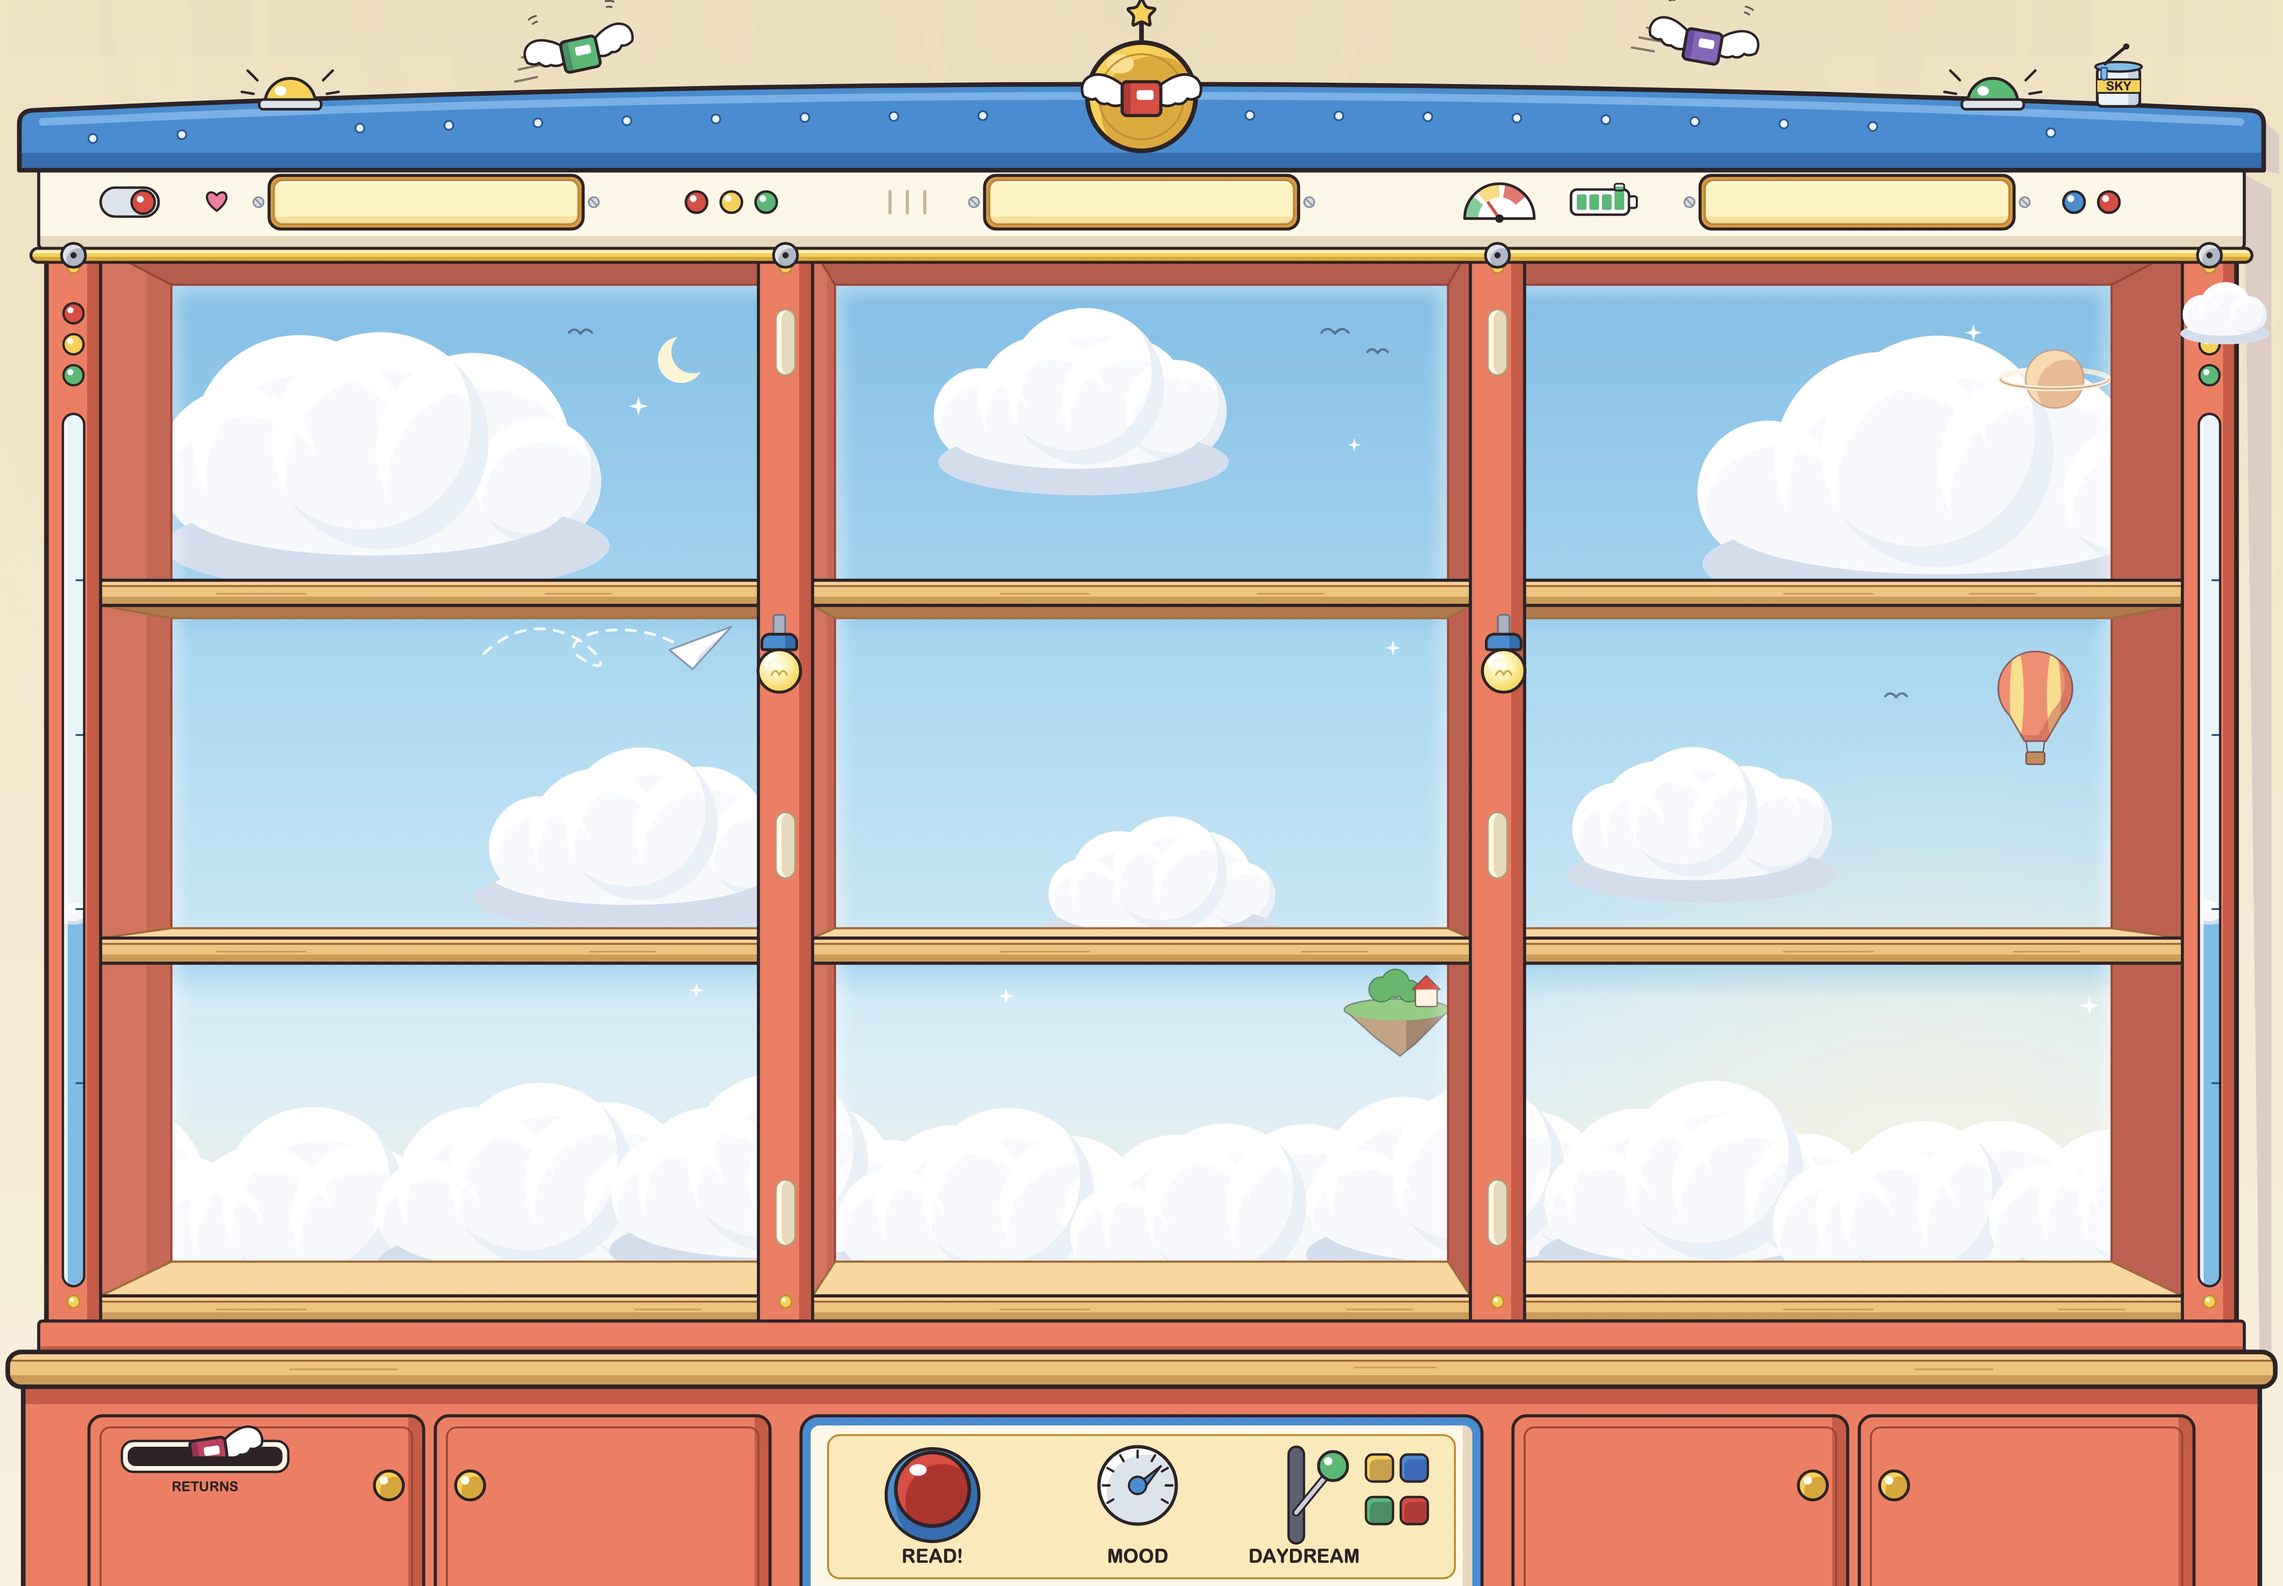
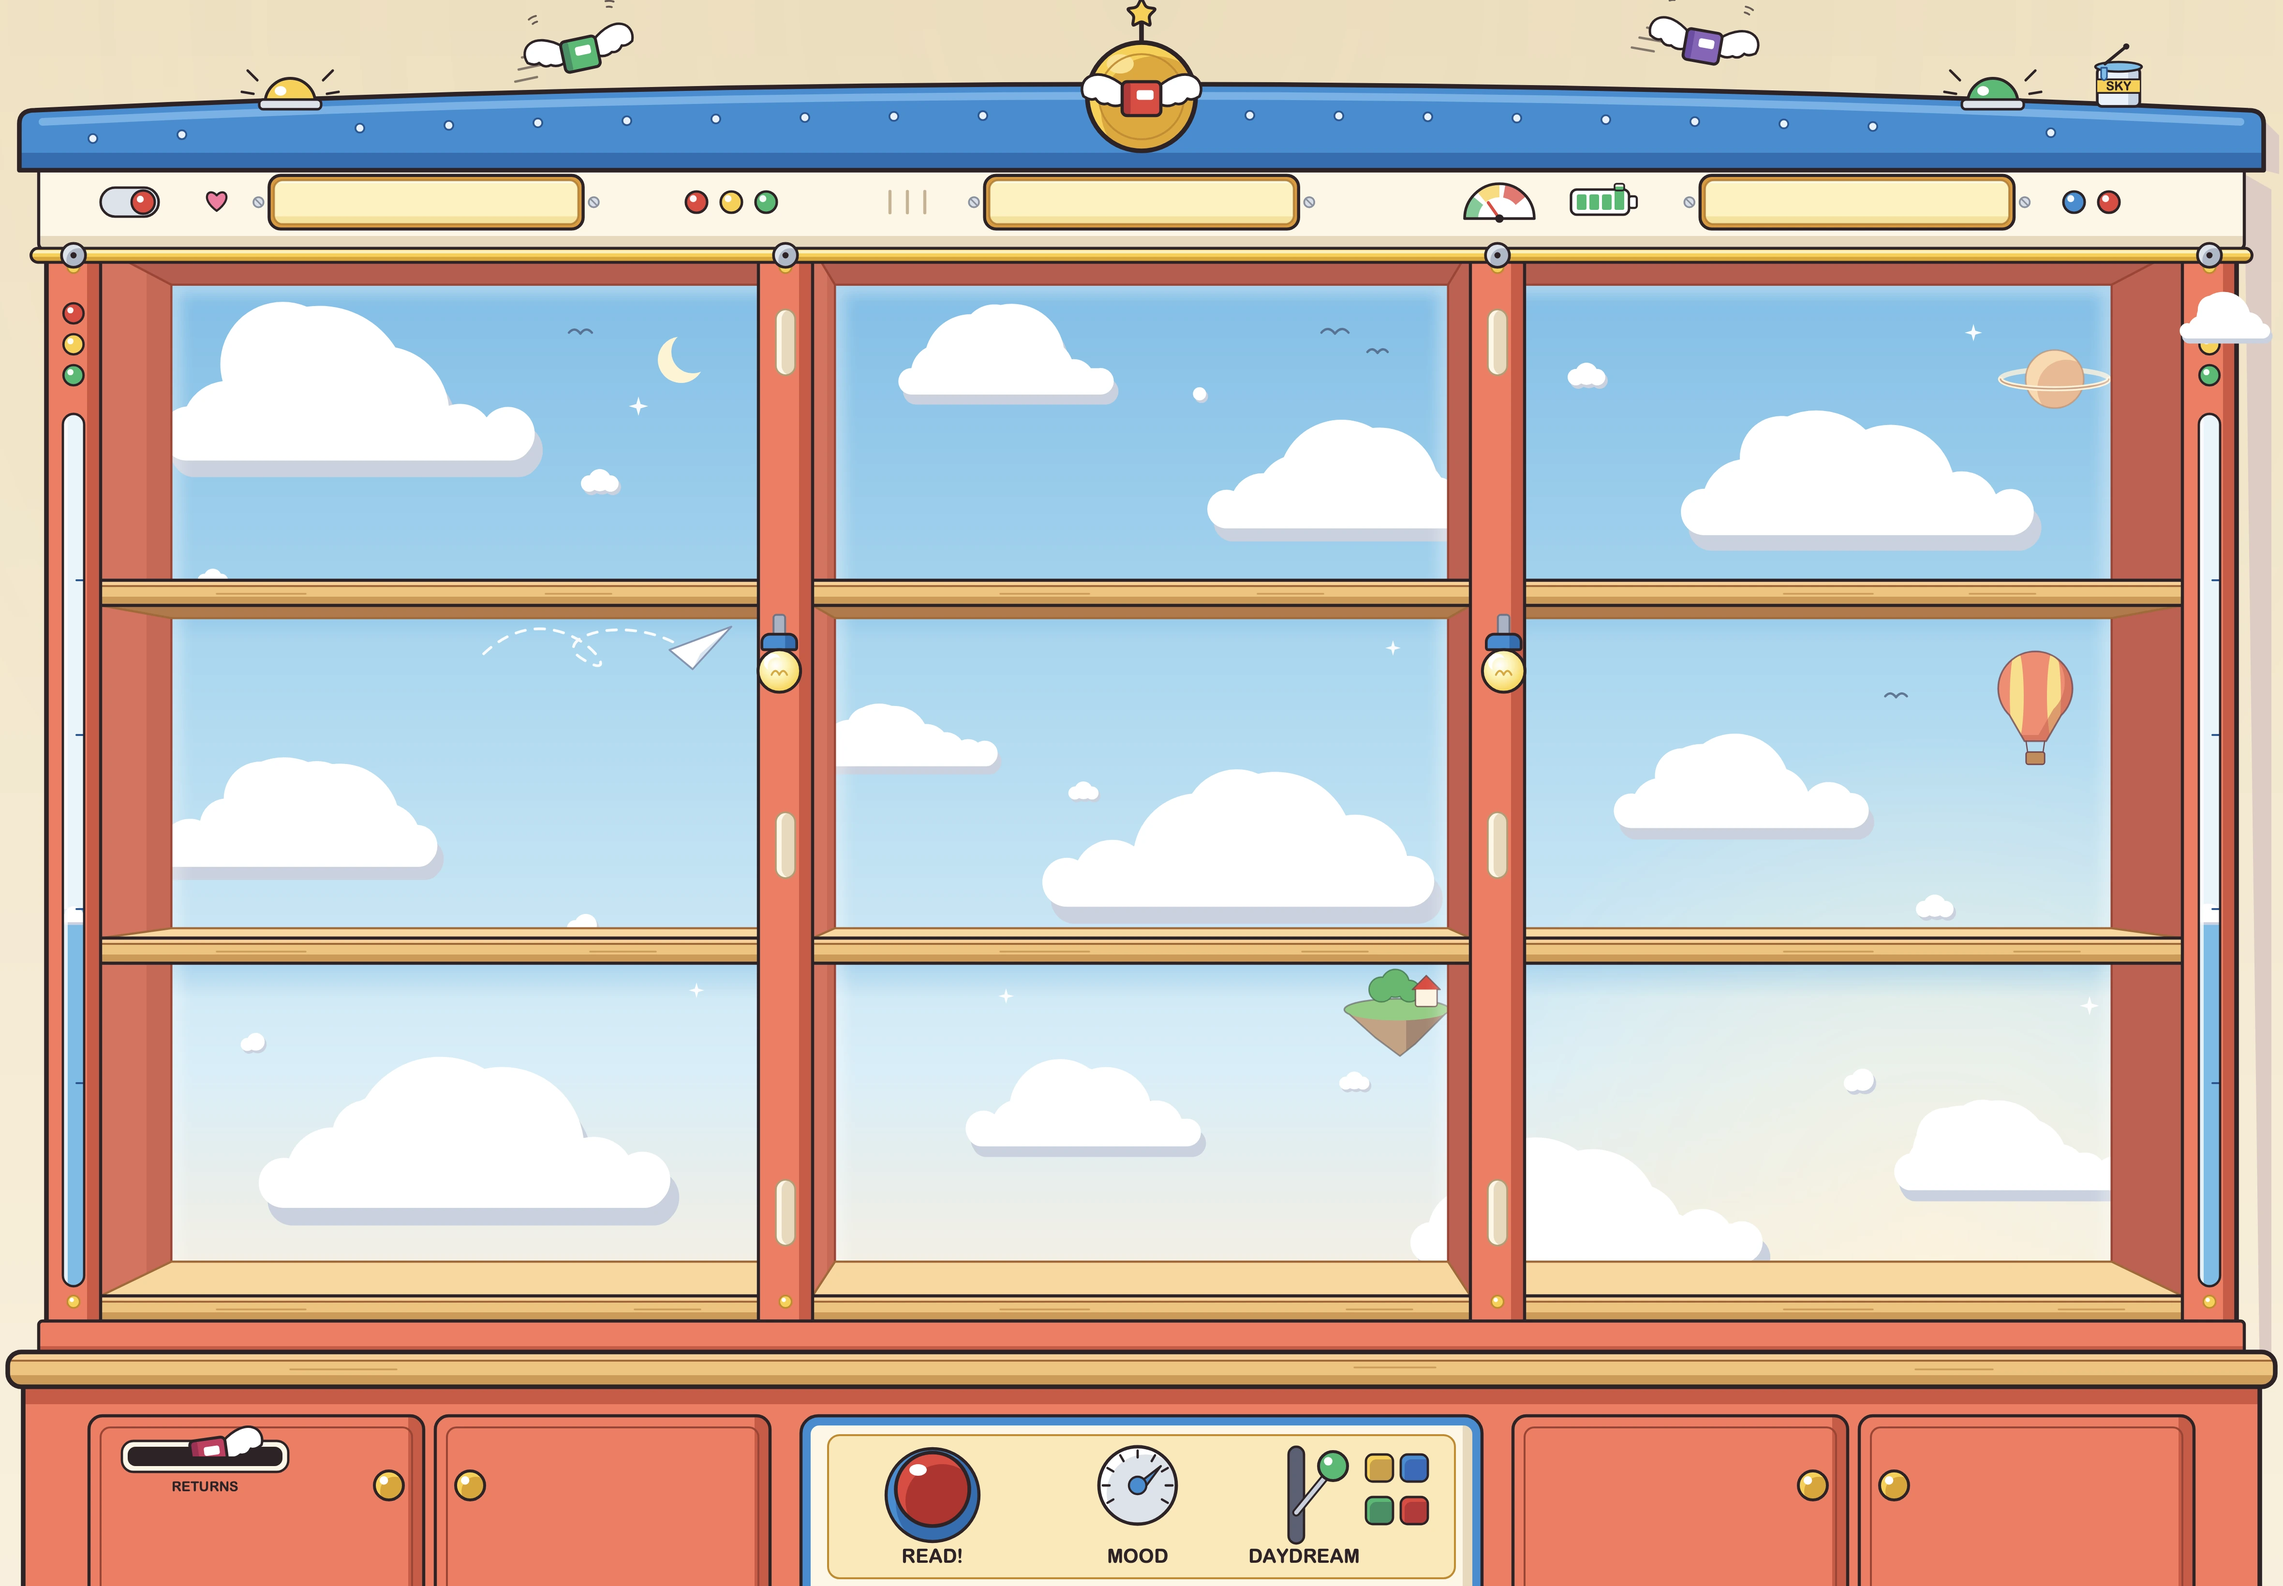
Wonder Shelf: reference-style cartoon clouds, flat bold rounded top-bar controls, no top gradient

diff --git a/index.html b/index.html
@@ -1052,10 +1052,10 @@ body.portrait:not(.compact) .topbar .lbl{display:none}
 :root[data-theme=toon]{--surround:#3763A0;--text:#FFFFFF;--muted:#DEE7F6;--faint:#B6C6E2;--gilt:#F7D259;--gilt-deep:#D79C44;--line:rgba(255,210,63,.38);--glass:rgba(32,60,118,.84);--glass-hi:rgba(48,84,152,.92);--ink:#2E2328;--ink-muted:#685F63;--ink-red:#D25643;--ink-line:rgba(46,35,40,.28);
   --f-ui:"Hiragino Maru Gothic ProN","Arial Rounded MT Bold","LibZH","PingFang TC",sans-serif;--f-book:"Hiragino Maru Gothic ProN","LibZH","PingFang TC",sans-serif;--f-display:"Arial Rounded MT Bold","Hiragino Maru Gothic ProN","LibZH","PingFang TC",sans-serif;--f-zhserif:"Hiragino Maru Gothic ProN","PingFang TC",sans-serif}
 :root[data-theme=toon] .stage{background:#3763A0}
-:root[data-theme=toon] .topbar{background:linear-gradient(180deg,rgba(47,100,174,.55),rgba(47,100,174,0))}
+:root[data-theme=toon] .topbar{background:none}
 :root[data-theme=toon] .bottombar{background:linear-gradient(0deg,rgba(47,100,174,.55),rgba(47,100,174,0))}
-:root[data-theme=toon] .primary{border:2px solid #2E2328;border-radius:22px;background:linear-gradient(180deg,#F7D259 0 64%,#E7B444 64% 100%);color:#2E2328;box-shadow:inset 0 2px 0 #FCF1B5,0 3px 0 #2E2328;text-shadow:none;font-weight:400}
-:root[data-theme=toon] .primary:active{transform:translateY(2px);box-shadow:inset 0 2px 0 rgba(255,255,255,.5),0 1px 0 #2E2328}
+:root[data-theme=toon] .primary{border:2px solid #2E2328;border-image:none;border-radius:22px;background:#F7D259;color:#2E2328;box-shadow:none;text-shadow:none;font-family:"Arial Rounded MT Bold","Hiragino Maru Gothic ProN",sans-serif;font-weight:400}
+:root[data-theme=toon] .primary:active{filter:brightness(.94)}
 :root[data-theme=toon] .primary[disabled]{background:rgba(255,255,255,.12);border-color:rgba(255,255,255,.3);color:rgba(255,255,255,.45);box-shadow:none}
 :root[data-theme=toon] .plate{color:#2E2328;text-shadow:none;font-family:"Arial Rounded MT Bold","Hiragino Maru Gothic ProN",sans-serif;font-weight:400;letter-spacing:.06em}
 :root[data-theme=toon] .divider{background:linear-gradient(90deg,#FCF1BB,#F7D259 45%,#D9A73E);box-shadow:0 0 0 1.2px #2E2328;border-radius:3px}
@@ -1090,10 +1090,13 @@ body.portrait:not(.compact) .topbar .lbl{display:none}
 :root[data-theme=toon] .wordmark,:root[data-theme=toon] .pager .where,:root[data-theme=toon] .bayname{background:#4A8DCF;border-radius:16px;padding:5px 14px 7px;box-shadow:0 0 0 2px #2E2328,0 3px 0 #2E2328}
 :root[data-theme=toon] .wordmark b{text-shadow:1px 0 0 #2E2328,-1px 0 0 #2E2328,0 1px 0 #2E2328,0 -1px 0 #2E2328,.7px .7px 0 #2E2328,-.7px .7px 0 #2E2328,.7px -.7px 0 #2E2328,-.7px -.7px 0 #2E2328}
 :root[data-theme=toon] .wordmark span,:root[data-theme=toon] .pager .where,:root[data-theme=toon] .pager .where small,:root[data-theme=toon] .bayname,:root[data-theme=toon] .syncbtn{color:#FFFFFF;text-shadow:0 1px 0 rgba(46,35,40,.45)}
-:root[data-theme=toon] .search,:root[data-theme=toon] .icon-btn{background:#4A8DCF;border:2px solid #2E2328;box-shadow:0 3px 0 #2E2328;color:#FFFFFF}
+:root[data-theme=toon] .search,:root[data-theme=toon] .icon-btn{background:#4A8DCF;border:2px solid #2E2328;box-shadow:none;color:#FFFFFF}
+:root[data-theme=toon] .icon-btn,:root[data-theme=toon] .icon-btn .lbl,:root[data-theme=toon] .search input{font-family:"Arial Rounded MT Bold","Hiragino Maru Gothic ProN",sans-serif;font-weight:400}
+:root[data-theme=toon] .topbar .icon-btn,:root[data-theme=toon] .topbar .primary,:root[data-theme=toon] .search input{font-size:16px}
+:root[data-theme=toon] body:not(.compact):not(.portrait) .topbar .search{width:340px}
 :root[data-theme=toon] .search input{color:#FFFFFF}
-:root[data-theme=toon] .search input::placeholder{color:#E5EEF8;font-size:14px}
-:root[data-theme=toon] .icon-btn:active{transform:translateY(2px);box-shadow:0 1px 0 #2E2328;filter:none}
+:root[data-theme=toon] .search input::placeholder{color:#E5EEF8;font-size:15px}
+:root[data-theme=toon] .icon-btn:active{filter:brightness(1.12)}
 :root[data-theme=toon] .bayname{padding:4px 16px 6px}
 :root[data-theme=toon] .wordmark b{font-family:"Arial Rounded MT Bold",sans-serif;font-weight:400}
 :root[data-theme=toon] .cover{background-image:none!important;box-shadow:0 0 0 2px #2E2328,4px 5px 0 rgba(46,35,40,.35)!important;border-radius:5px}

diff --git a/sw.js b/sw.js
@@ -1,7 +1,7 @@
 /* The Library — service worker.
  * Bump VERSION on every deploy that changes any precached file, so clients pick up the new shell.
  */
-const VERSION = 'lib-v58';
+const VERSION = 'lib-v59';
 
 const SHELL_CACHE = 'shell-' + VERSION;
 const COVERS_CACHE = 'covers';          // shared across versions, capped below
